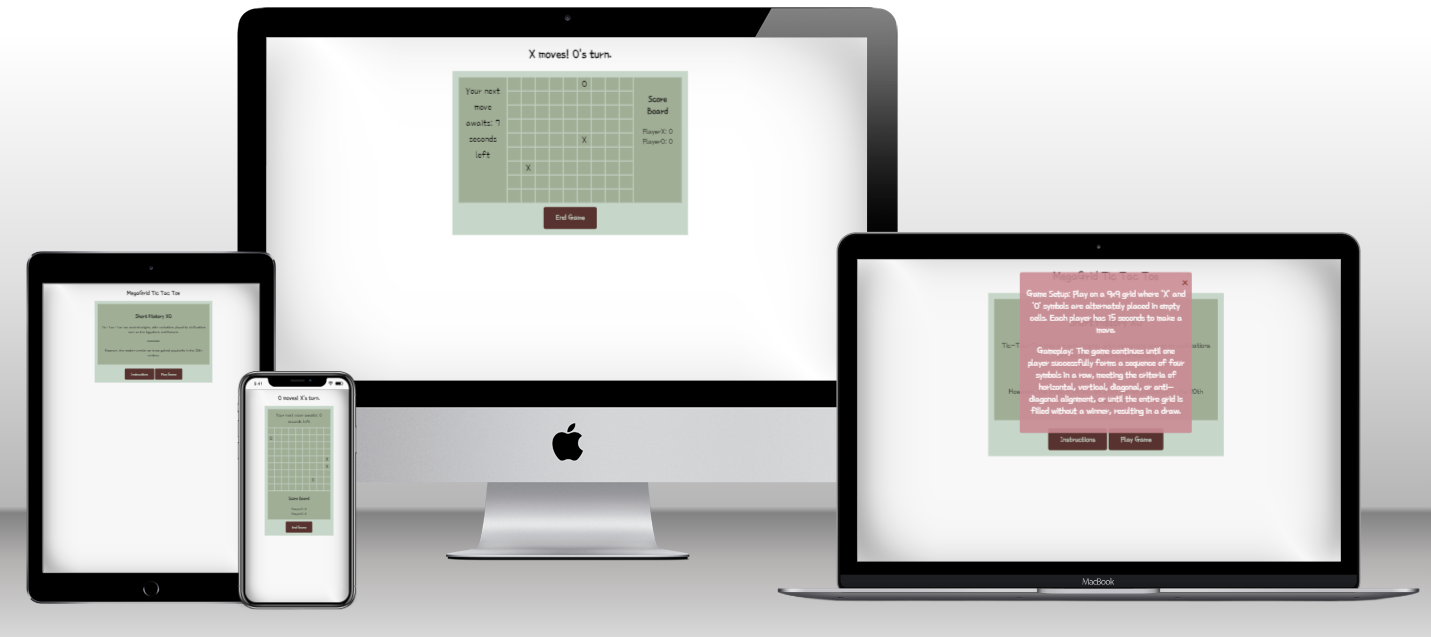
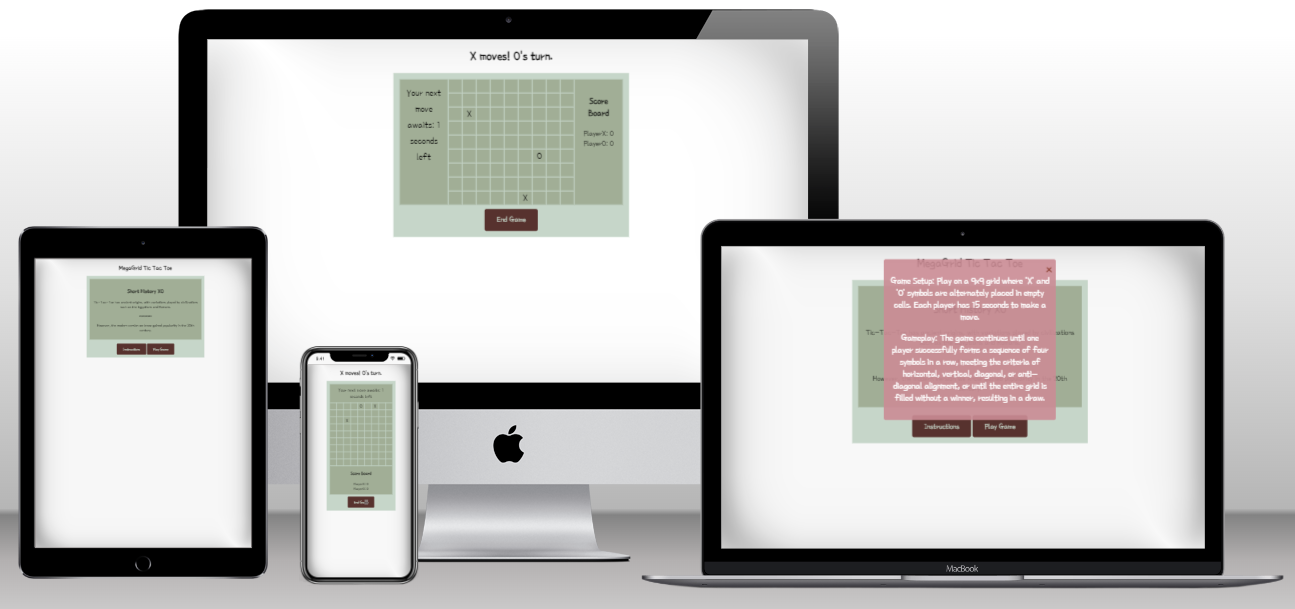
Update mockup and grid images

Changed region(s): [[0.0, 0.0, 1.0, 0.9672], [0.6486, 0.4056, 0.8649, 0.7488]]

diff --git a/README.md b/README.md
@@ -25,33 +25,33 @@ I found myself quickly adapting to the fast-paced gameplay, making decisions on 
 
 The 9x9 grid is dynamically generated, with its visual representation achieved through HTML elements generated by JavaScript code.
 
-![EX01](assets/images/grid.PNG)
+![Grid](assets/images/grid.PNG)
 
 - **Score Board**
 
 The Score Board updates each time a player wins, keeping track of the number of wins until the player chooses to exit the game through the end game button.
 
-![EX02](assets/images/score2.PNG)
+![Score](assets/images/score2.PNG)
 
 - **Move Timer**
 
 At the beginning of the game, a timer initiates a countdown from 15 seconds, providing each player with a limited timeframe to make their move. If a player fails to make a move within the allotted 15 seconds, the computer intervenes, making a random move on their behalf.
 
-![EX03](assets/images/time2.PNG)
+![Timer](assets/images/time1.PNG)
 
 - **Player Turn**
 
 This feature begins by informing the players of who will move first and continues to update throughout the game, indicating whose turn it is. It automatically updates after each player has made a move.
 
-![EX04](assets/images/player turn.PNG)
+![Player](assets/images/playerturn.PNG)
 
 - **Info Modals**
 
 Their purpose is to provide information to the player when needed, without disrupting the game. Additionally, the gem modal also facilitates resetting the game to its initial state through a replay button.
 
 
-![EX05](assets/images/winmodal.PNG)
-![EX05](assets/images/instrmodal.PNG)
+![Modal1](assets/images/winmodal.PNG)
+![Modal2](assets/images/instrmodal.PNG)
 
 ## Landing Page
 
@@ -61,7 +61,7 @@ The landing page serves a dual purpose: it presents a brief history of the game 
 
 Its primary function is to introduce the player to the game and offer concise guidance on gameplay.
 
-![Image](assets/images/landingpage.PNG)
+![Landing page](assets/images/landingpage.PNG)
 
 ## Game Page
 
@@ -72,7 +72,7 @@ The game page presents a streamlined playing layout, providing the player with c
 Essentially, the primary goal is to offer an immersive playing experience and encourage the player to enjoy multiple games with ease.
 
 
-![Image](assets/images/gamepage.PNG)
+![Game Page](assets/images/gamepage.PNG)
 
 ## Features Left to Implement
 
